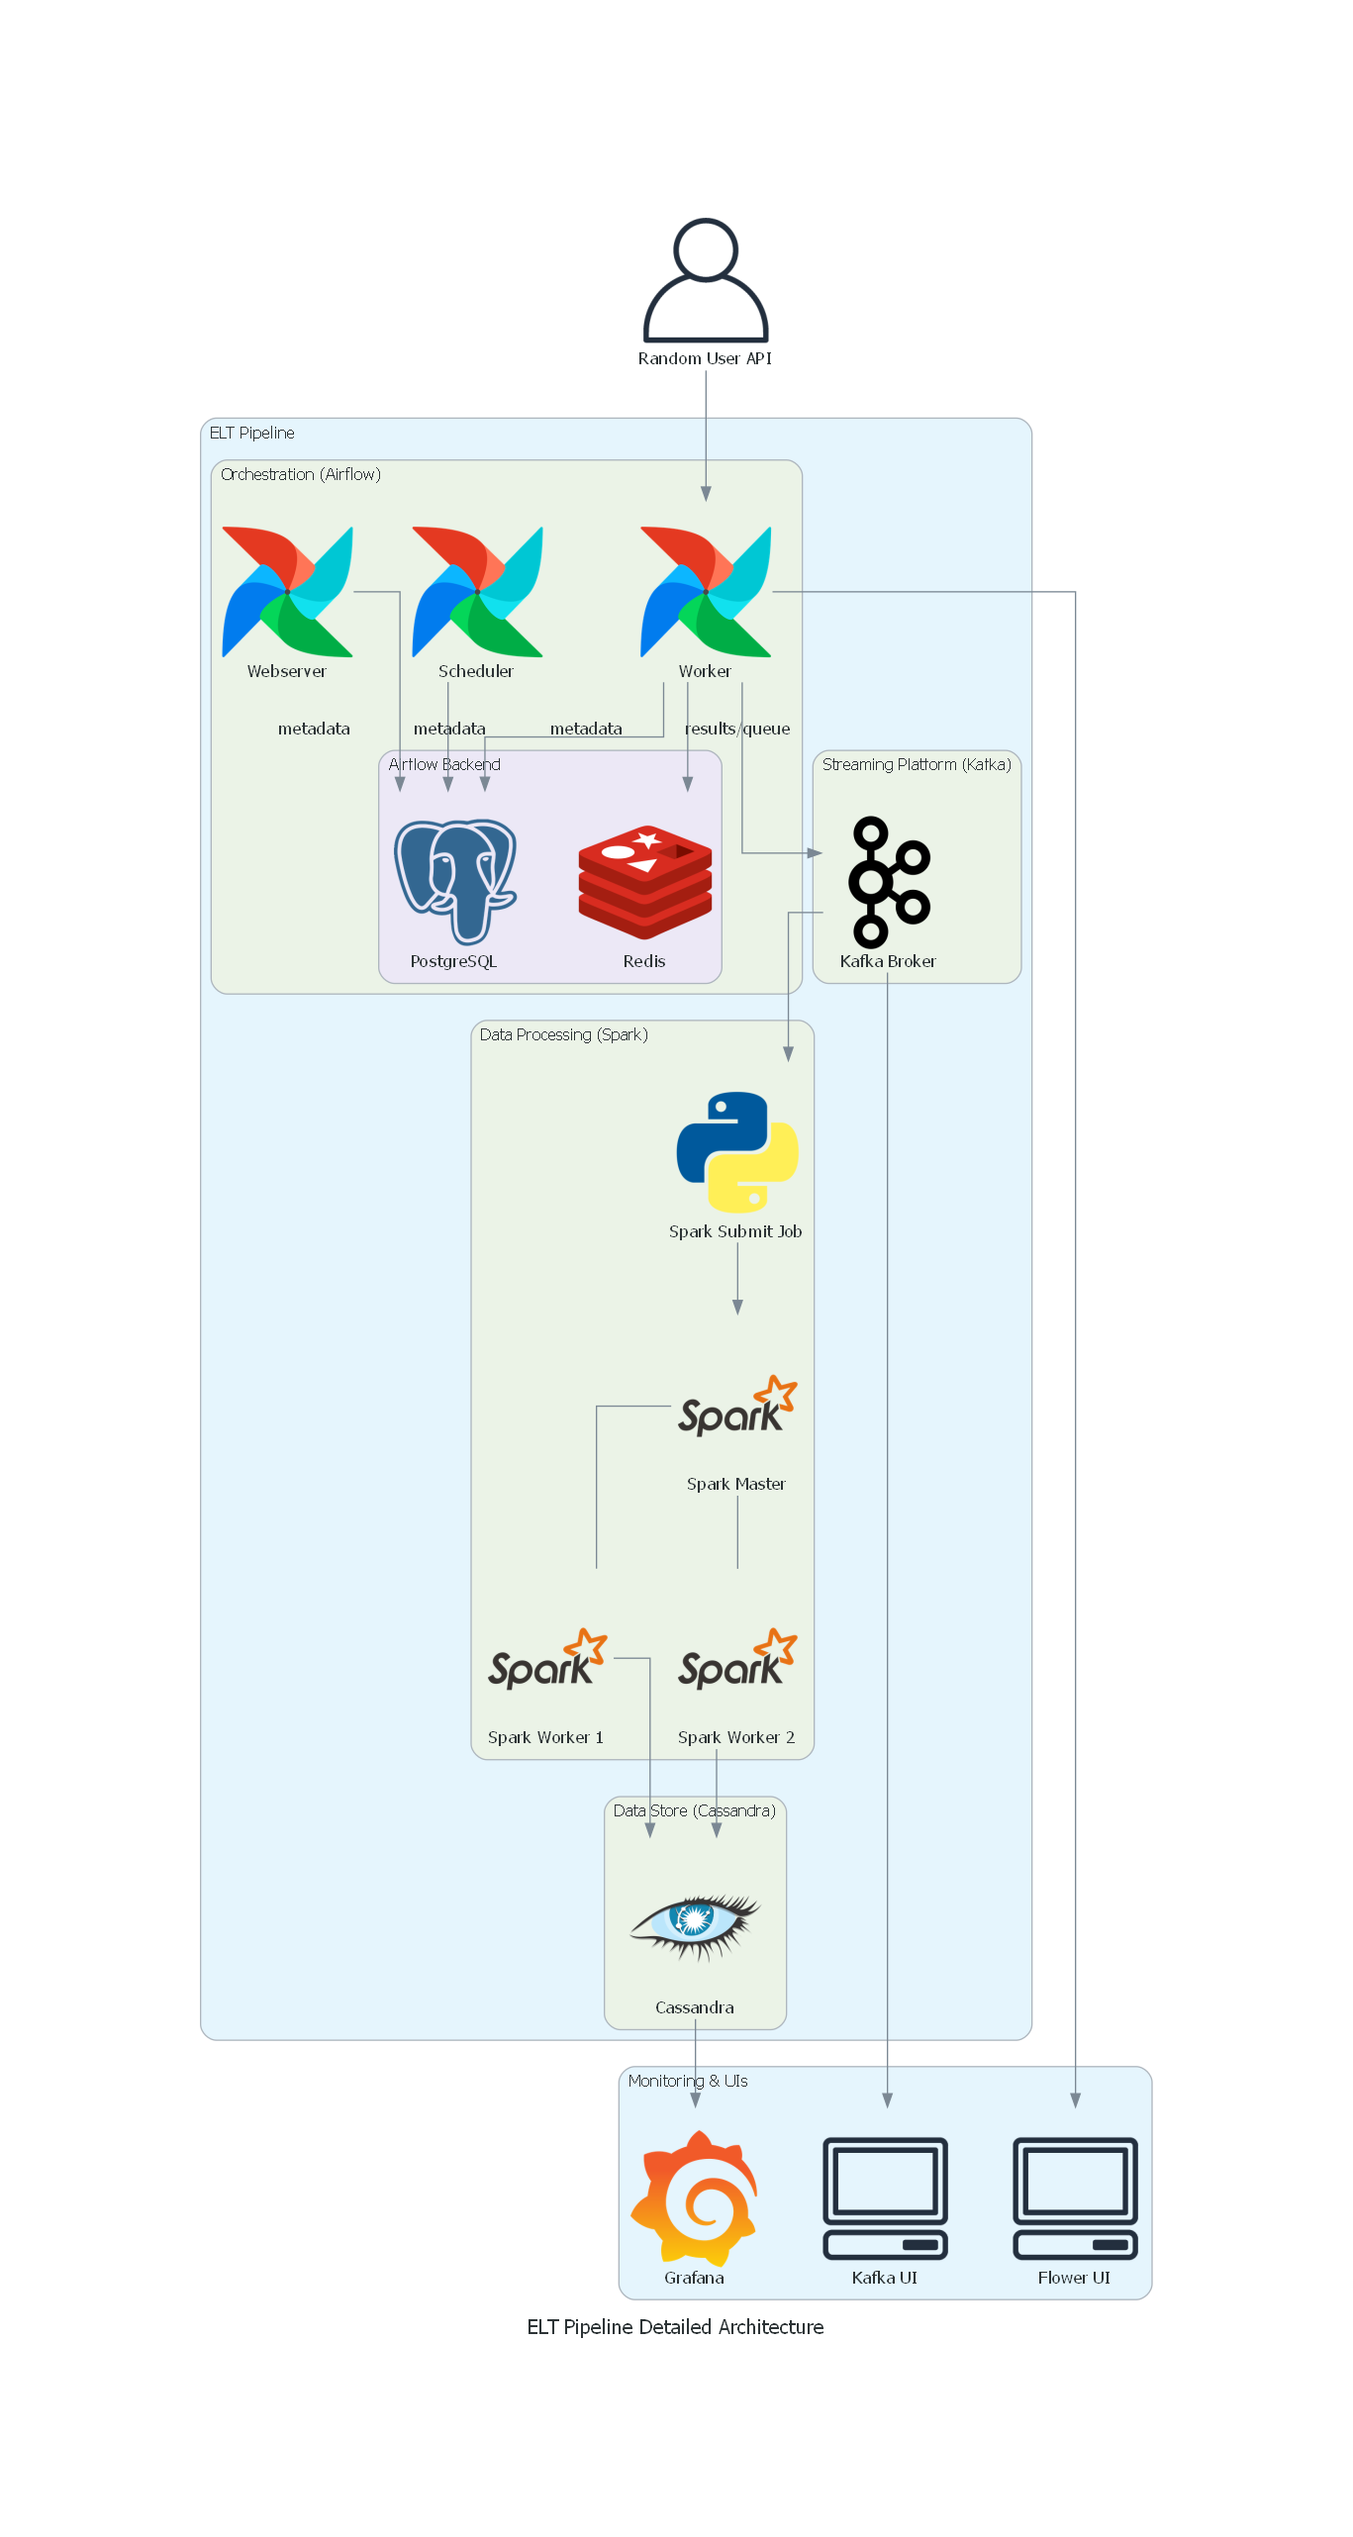
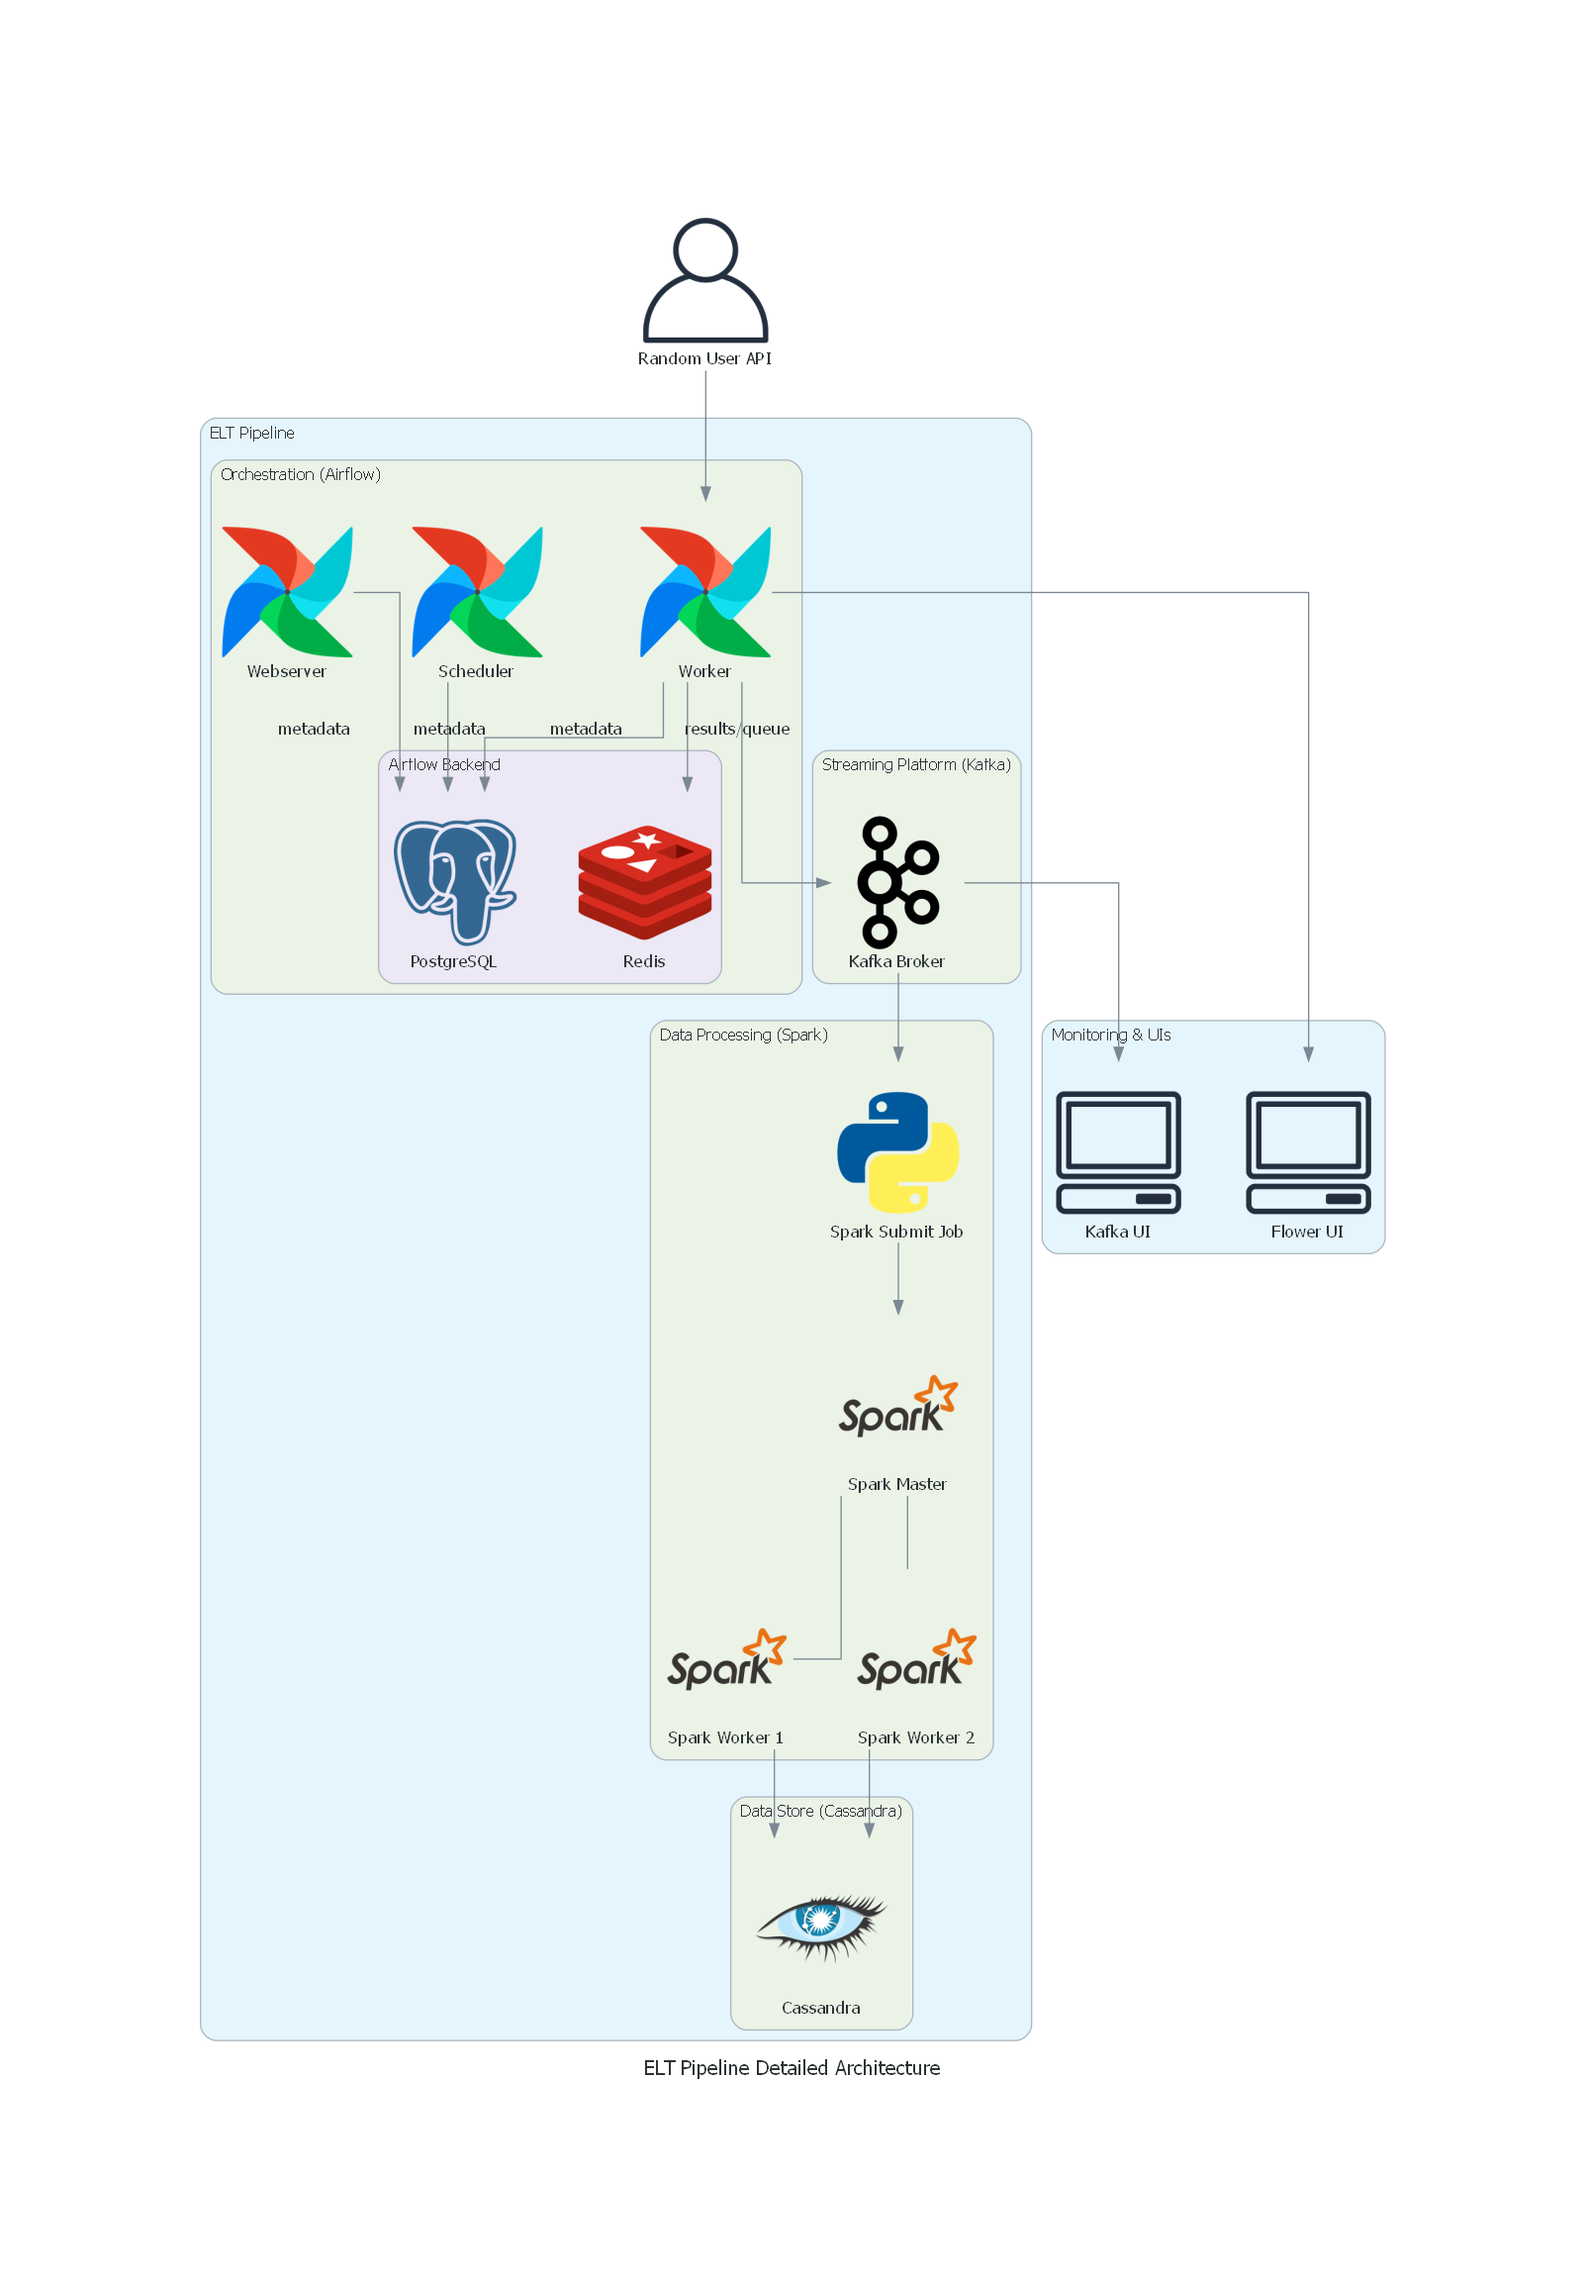
updating the architecture

Changed region(s): [[0.1229, 0.0926, 0.891, 0.9261]]

diff --git a/diagram.py b/diagram.py
@@ -4,7 +4,6 @@ from diagrams.onprem.queue import Kafka
 from diagrams.onprem.database import Cassandra, Postgresql
 from diagrams.onprem.analytics import Spark
 from diagrams.onprem.inmemory import Redis
-from diagrams.onprem.monitoring import Grafana
 from diagrams.onprem.client import User, Client # Now importing Client for the UIs
 from diagrams.programming.language import Python
 from diagrams.generic.compute import Rack
@@ -13,7 +12,6 @@ with Diagram("ELT Pipeline Detailed Architecture", show=False, direction="TB") a
     user = User("Random User API")
    
     with Cluster("Monitoring & UIs"):
-        grafana = Grafana("Grafana")
         # Changed from Python to Client to get a more generic UI icon
         flower = Client("Flower UI")
         kafka_ui = Client("Kafka UI")
@@ -58,6 +56,5 @@ with Diagram("ELT Pipeline Detailed Architecture", show=False, direction="TB") a
     spark_workers >> cassandra
    
     # Monitoring Connections
-    cassandra >> grafana
     airflow_worker >> flower
     kafka >> kafka_ui

diff --git a/spark/stream_job.py b/spark/stream_job.py
@@ -1,5 +1,5 @@
 from pyspark.sql import SparkSession
-from pyspark.sql.functions import from_json, col, concat_ws
+from pyspark.sql.functions import from_json, col, concat_ws, current_timestamp
 from pyspark.sql.types import StructType, StructField, StringType, IntegerType
 import logging
 
@@ -48,7 +48,9 @@ query = df_users.writeStream \
     .format("console") \
     .start()
 
-query = df_users.writeStream \
+processed_df = df_users.withColumn("created_at", current_timestamp())
+
+query = processed_df.writeStream \
     .format("org.apache.spark.sql.cassandra") \
     .outputMode("append") \
     .option("checkpointLocation", "/tmp/spark-checkpoint") \
